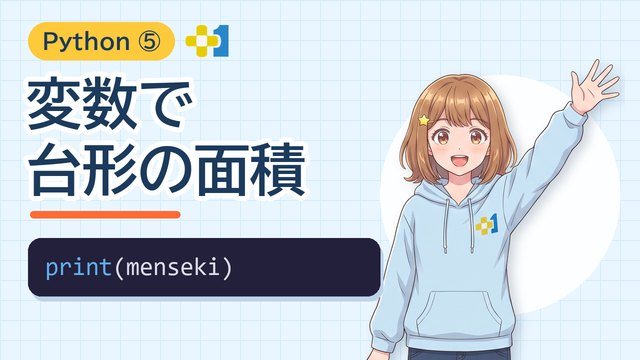
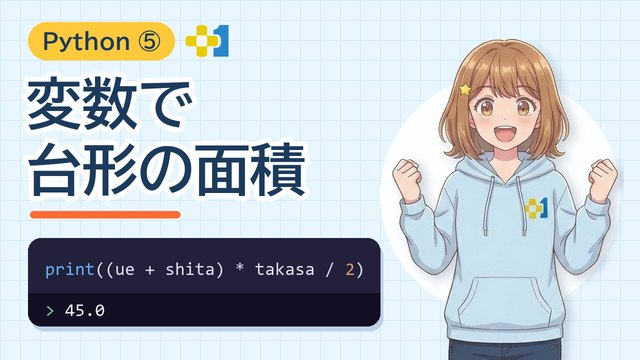
Python ナビ：ステップ5「変数で台形の面積」を新しい動画に・仕上げ5問 31-5 を作り直す
- 動画 AbLasB6P6Vc（台形の図の動き・箱を3つ・menseki）・見出し3つ＋チャレンジ3つ・おさらい1問・サムネイル
- 仕上げ5問 31-5 を、このステップの内容（台形・menseki・作る前に使うエラー）で新しく作った。前の変数の5問は 31-4 と重なるので使わない

Changed region(s): [[0.0312, 0.0917, 0.9688, 1.0]]

diff --git a/src/data/navi/finishSteps.ts b/src/data/navi/finishSteps.ts
@@ -34,7 +34,7 @@ export const finishStepLessons: Lesson[] = [
     "unitNumber": 31,
     "subNumber": 5,
     "title": "ステップ5の仕上げ",
-    "description": "変数（箱）に入れて、計算や表示に使おう",
+    "description": "箱をいくつも使って、台形などの面積を計算しよう",
     "difficulty": "かんたん"
   },
   {
@@ -779,125 +779,157 @@ export const finishStepMissions: Record<string, Mission[]> = {
     {
       "id": 1,
       "type": "quiz",
-      "title": "箱の中身で計算",
+      "title": "台形の面積",
       "description": "このコードを実行すると、何が出る？",
-      "codeToRead": "tate = 4\nyoko = 5\nprint(tate * yoko)",
+      "codeToRead": "ue = 3\nshita = 5\ntakasa = 4\nprint((ue + shita) * takasa / 2)",
       "choices": [
-        "9",
-        "20",
-        "tate * yoko"
+        "16",
+        "16.0",
+        "32.0"
       ],
       "correctAnswer": 1,
-      "expectedOutput": "20",
-      "hint": "tate と yoko には、何が入っているかな？",
-      "explanation": "tate は 4、yoko は 5。4 × 5 で 20 が出るよ。",
+      "expectedOutput": "16.0",
+      "hint": "わり算 / が入っていると、答えに何がつくかな？",
+      "explanation": "(3 + 5) × 4 ÷ 2 = 16。わり算なので 16.0 と出るよ。",
       "availableBlocks": []
     },
     {
       "id": 2,
       "type": "quiz",
-      "title": "\" \" があると？",
+      "title": "箱に入れた答え",
       "description": "このコードを実行すると、何が出る？",
-      "codeToRead": "name = \"いちか\"\nprint(\"name\")",
+      "codeToRead": "tate = 3\nyoko = 4\nmenseki = tate * yoko\nprint(menseki)",
       "choices": [
-        "name",
-        "いちか",
-        "エラーになる"
+        "12",
+        "menseki",
+        "tate * yoko"
       ],
       "correctAnswer": 0,
-      "expectedOutput": "name",
-      "hint": "print の中の name は \" \" でかこんであるね。",
-      "explanation": "\" \" でかこむと、ただの文字 name が出る。箱の中身を出すなら print(name) だよ。",
+      "expectedOutput": "12",
+      "hint": "menseki の箱には、何が入っているかな？",
+      "explanation": "menseki には tate * yoko の答え 12 が入る。print(menseki) で 12 が出るよ。",
       "availableBlocks": []
     },
     {
       "id": 3,
       "type": "quiz",
       "title": "エラーを直そう",
-      "description": "実行したら「NameError: name 'takasa' is not defined」と出た。どう直す？",
-      "codeToRead": "print(takasa)",
+      "description": "実行したら「NameError: name 'menseki' is not defined」と出た。どう直す？",
+      "codeToRead": "print(menseki)\nmenseki = 6 * 4",
       "choices": [
-        "takasa を \" \" でかこむ",
-        "print を Print にする",
-        "print の前に takasa = 6 のように、箱を作る"
+        "menseki を \" \" でかこむ",
+        "* を × にする",
+        "menseki = 6 * 4 の行を、print より上に書く"
       ],
       "correctAnswer": 2,
-      "expectedOutput": "print の前に takasa = 6 のように、箱を作る",
-      "hint": "NameError は「その名前の箱がないよ」という意味。",
-      "explanation": "takasa という箱をまだ作っていないので NameError。先に takasa = 6 のように作ろう。",
+      "expectedOutput": "menseki = 6 * 4 の行を、print より上に書く",
+      "hint": "パイソンは、上の行から順番に動くよ。",
+      "explanation": "1行目では menseki をまだ作っていないので NameError。箱を作る行を、先に書こう。",
       "availableBlocks": []
     },
     {
       "id": 4,
-      "title": "箱を作って表示",
-      "description": "変数 kazu に 7 を入れて、kazu の中身を表示しよう！",
-      "expectedOutput": "7",
-      "correctCode": "kazu = 7\nprint(kazu)",
+      "title": "台形の面積",
+      "description": "ue・shita・takasa の箱を使って、台形の面積を表示しよう！",
+      "expectedOutput": "21.0",
+      "correctCode": "print((ue + shita) * takasa / 2)",
       "availableBlocks": [
         {
           "id": "b0",
-          "text": "kazu",
-          "type": "variable",
-          "color": "bg-sky-200"
-        },
-        {
-          "id": "b1",
-          "text": "=",
-          "type": "operator",
-          "color": "bg-orange-200"
-        },
-        {
-          "id": "b2",
-          "text": "7",
-          "type": "number",
-          "color": "bg-yellow-100"
-        },
-        {
-          "id": "nl3",
-          "text": "↵",
-          "type": "newline",
-          "color": "bg-pink-200"
-        },
-        {
-          "id": "b4",
           "text": "print",
           "type": "function",
           "color": "bg-yellow-200"
         },
         {
-          "id": "b5",
+          "id": "b1",
           "text": "(",
           "type": "bracket",
           "color": "bg-gray-200"
         },
         {
-          "id": "b6",
+          "id": "b2",
+          "text": "ue",
+          "type": "variable",
+          "color": "bg-sky-200"
+        },
+        {
+          "id": "b3",
+          "text": "+",
+          "type": "operator",
+          "color": "bg-orange-200"
+        },
+        {
+          "id": "b4",
+          "text": "shita",
+          "type": "variable",
+          "color": "bg-sky-200"
+        },
+        {
+          "id": "b5",
           "text": ")",
           "type": "bracket",
           "color": "bg-gray-200"
         },
         {
+          "id": "b6",
+          "text": "*",
+          "type": "operator",
+          "color": "bg-orange-200"
+        },
+        {
           "id": "b7",
-          "text": "\"kazu\"",
-          "type": "string",
-          "color": "bg-green-200"
+          "text": "takasa",
+          "type": "variable",
+          "color": "bg-sky-200"
+        },
+        {
+          "id": "b8",
+          "text": "/",
+          "type": "operator",
+          "color": "bg-orange-200"
+        },
+        {
+          "id": "b9",
+          "text": "2",
+          "type": "number",
+          "color": "bg-yellow-100"
+        },
+        {
+          "id": "b10",
+          "text": "×",
+          "type": "operator",
+          "color": "bg-orange-200"
+        },
+        {
+          "id": "b11",
+          "text": "÷",
+          "type": "variable",
+          "color": "bg-sky-200"
         }
       ],
+      "prefixCode": "ue = 3\nshita = 4\ntakasa = 6",
       "rules": [
         {
           "forbids": [
-            "\"kazu\""
+            "×",
+            "÷"
           ],
-          "message": "\" \" でかこむと、箱の中身ではなく文字のまま出るよ！"
+          "message": "かけ算は *、わり算は / で書くよ！"
+        },
+        {
+          "requires": [
+            "(ue + shita)"
+          ],
+          "message": "上の辺と下の辺を、かっこで先にたそう！"
         }
       ]
     },
     {
       "id": 5,
-      "title": "かけ算を箱に入れる",
-      "description": "tate × yoko の答えを変数 menseki に入れて、menseki を表示しよう！",
-      "expectedOutput": "30",
-      "correctCode": "menseki = tate * yoko\nprint(menseki)",
+      "title": "答えを箱に入れる",
+      "description": "三角形の面積を menseki に入れて、menseki を表示しよう！",
+      "expectedOutput": "12.0",
+      "correctCode": "menseki = teihen * takasa / 2\nprint(menseki)",
       "availableBlocks": [
         {
           "id": "b0",
@@ -913,7 +945,7 @@ export const finishStepMissions: Record<string, Mission[]> = {
         },
         {
           "id": "b2",
-          "text": "tate",
+          "text": "teihen",
           "type": "variable",
           "color": "bg-sky-200"
         },
@@ -925,48 +957,60 @@ export const finishStepMissions: Record<string, Mission[]> = {
         },
         {
           "id": "b4",
-          "text": "yoko",
+          "text": "takasa",
           "type": "variable",
           "color": "bg-sky-200"
         },
         {
-          "id": "nl5",
+          "id": "b5",
+          "text": "/",
+          "type": "operator",
+          "color": "bg-orange-200"
+        },
+        {
+          "id": "b6",
+          "text": "2",
+          "type": "number",
+          "color": "bg-yellow-100"
+        },
+        {
+          "id": "nl7",
           "text": "↵",
           "type": "newline",
           "color": "bg-pink-200"
         },
         {
-          "id": "b6",
+          "id": "b8",
           "text": "print",
           "type": "function",
           "color": "bg-yellow-200"
         },
         {
-          "id": "b7",
+          "id": "b9",
           "text": "(",
           "type": "bracket",
           "color": "bg-gray-200"
         },
         {
-          "id": "b8",
+          "id": "b10",
           "text": ")",
           "type": "bracket",
           "color": "bg-gray-200"
         },
         {
-          "id": "b9",
-          "text": "×",
-          "type": "operator",
-          "color": "bg-orange-200"
+          "id": "b11",
+          "text": "\"menseki\"",
+          "type": "string",
+          "color": "bg-green-200"
         }
       ],
-      "prefixCode": "tate = 10\nyoko = 3",
+      "prefixCode": "teihen = 6\ntakasa = 4",
       "rules": [
         {
           "forbids": [
-            "×"
+            "\"menseki\""
           ],
-          "message": "かけ算は × ではなく、* で書くよ！"
+          "message": "\" \" でかこむと、箱の中身ではなく文字のまま出るよ！"
         }
       ]
     }
@@ -5507,7 +5551,7 @@ export const finishStepTutorials: LessonTutorial[] = [
         "content": "さっきの動画で習ったことを、5問でたしかめます。結果を予想する問題・まちがいを直す問題・ブロックをならべる問題があります。",
         "characterMessage": "わからなくなったら、ヒントを見てね。",
         "codeExample": {
-          "good": "hako = 10\nprint(hako)  # 10"
+          "good": "ue = 5\nshita = 10\ntakasa = 6\nprint((ue + shita) * takasa / 2)  # 45.0"
         }
       }
     ]

diff --git a/scripts/build-navi-finish.py b/scripts/build-navi-finish.py
@@ -506,6 +506,23 @@ FRESH = {
           extra=["×", "+"], prefix="tate = 6\nyoko = 8",
           rules=[("forbids", ["×"], "かけ算は × ではなく、* で書くよ！"), ("req", ["tate", "yoko"], "数ではなく、箱の名前で計算しよう！")]),
     ]),
+    5: dict(desc="箱をいくつも使って、台形などの面積を計算しよう", example="ue = 5\nshita = 10\ntakasa = 6\nprint((ue + shita) * takasa / 2)  # 45.0", qs=[
+        Q("台形の面積", "ue = 3\nshita = 5\ntakasa = 4\nprint((ue + shita) * takasa / 2)", "16.0", ["16", "32.0"],
+          "わり算 / が入っていると、答えに何がつくかな？", "(3 + 5) × 4 ÷ 2 = 16。わり算なので 16.0 と出るよ。"),
+        Q("箱に入れた答え", "tate = 3\nyoko = 4\nmenseki = tate * yoko\nprint(menseki)", "12", ["menseki", "tate * yoko"],
+          "menseki の箱には、何が入っているかな？", "menseki には tate * yoko の答え 12 が入る。print(menseki) で 12 が出るよ。"),
+        Q("エラーを直そう", "print(menseki)\nmenseki = 6 * 4", "menseki = 6 * 4 の行を、print より上に書く",
+          ["menseki を \" \" でかこむ", "* を × にする"],
+          "パイソンは、上の行から順番に動くよ。",
+          "1行目では menseki をまだ作っていないので NameError。箱を作る行を、先に書こう。",
+          desc="実行したら「NameError: name 'menseki' is not defined」と出た。どう直す？", run=False),
+        B("台形の面積", "ue・shita・takasa の箱を使って、台形の面積を表示しよう！", "print((ue + shita) * takasa / 2)", "21.0",
+          extra=["×", "÷"], prefix="ue = 3\nshita = 4\ntakasa = 6",
+          rules=[("forbids", ["×", "÷"], "かけ算は *、わり算は / で書くよ！"), ("req", ["(ue + shita)"], "上の辺と下の辺を、かっこで先にたそう！")]),
+        B("答えを箱に入れる", "三角形の面積を menseki に入れて、menseki を表示しよう！", "menseki = teihen * takasa / 2\nprint(menseki)", "12.0",
+          extra=['"menseki"'], prefix="teihen = 6\ntakasa = 4",
+          rules=[("forbids", ['"menseki"'], "\" \" でかこむと、箱の中身ではなく文字のまま出るよ！")]),
+    ]),
 }
 
 NEW_STEP = {2: 5, 3: 8, 4: 9, 5: 10, 6: 11, 7: 14, 8: 16, 9: 18, 10: 23, 11: 25, 12: 28, 13: 33, 14: 35, 15: 37,
@@ -573,7 +590,8 @@ def build():
     lessons, missions, tutorials = [], {}, []
     k = 0
     # 25ステップのころの仕上げ（NEW_STEP で新しい番号に）と、55ステップで新しく作った仕上げ（FRESH）
-    items = [(NEW_STEP[n], STEPS[n], VIDEO.get(n)) for n in STEPS] + [(n, FRESH[n], True) for n in FRESH]
+    # 動画を作り直したステップは、FRESH の新しい5問を使う（前の5問は使わない）
+    items = [(NEW_STEP[n], STEPS[n], VIDEO.get(n)) for n in STEPS if NEW_STEP[n] not in FRESH] + [(n, FRESH[n], True) for n in FRESH]
     for new, s, vid in sorted(items, key=lambda x: x[0]):
         lid = f"31-{new}"
         lessons.append(dict(id=lid, unitNumber=31, subNumber=new, title=f"ステップ{new}の仕上げ", description=s["desc"],
